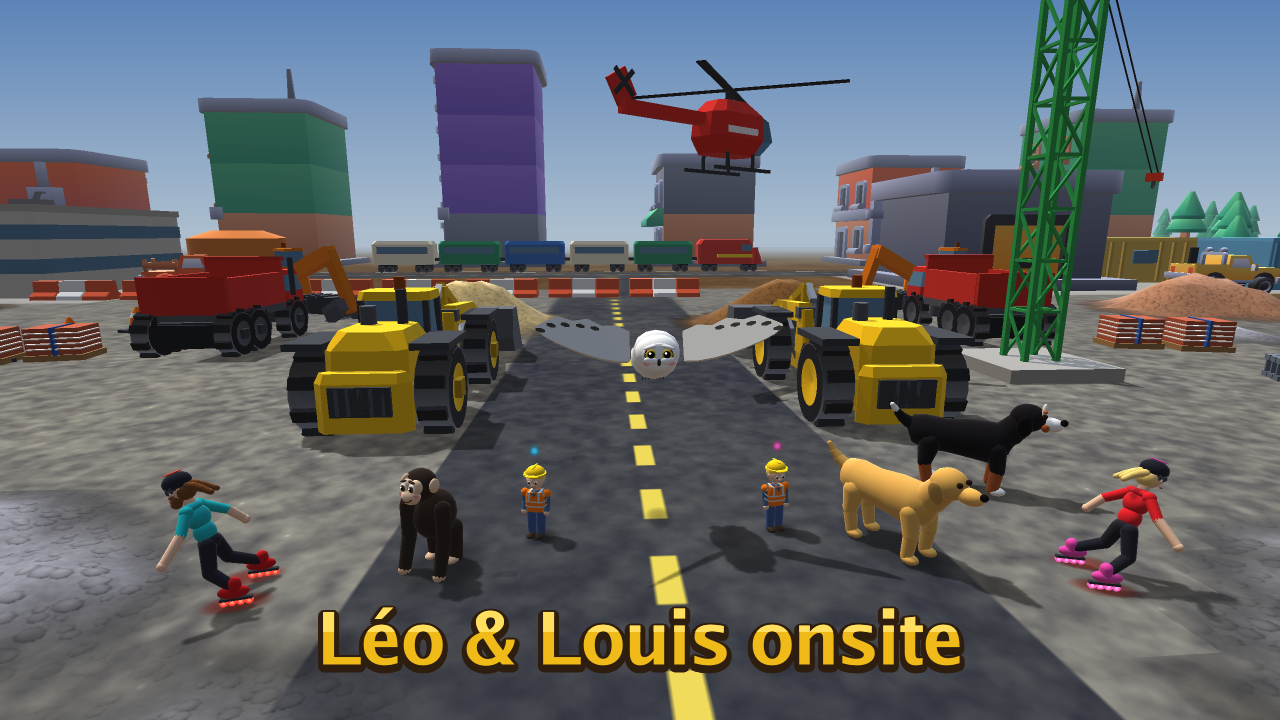
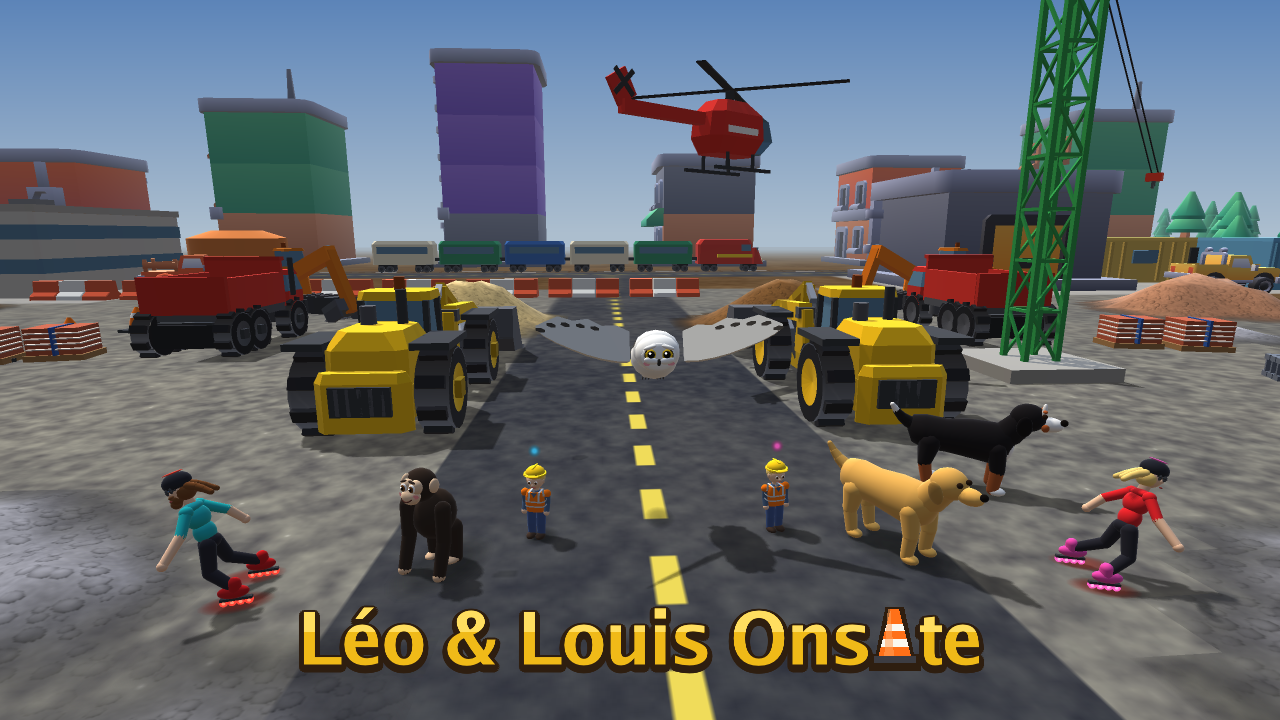
Cover title: capitalise Onsite and make its i a traffic cone
Claude-Session: https://claude.ai/code/session_01TV2VnbCZJpiNm8PhxzPZxk

Changed region(s): [[0.2188, 0.825, 0.7812, 0.9472]]

diff --git a/cover.go b/cover.go
@@ -1,13 +1,15 @@
 package main
 
 import (
+	"image/color"
 	"math"
+	"strings"
 
 	rl "github.com/gen2brain/raylib-go/raylib"
 )
 
 // coverTitle is the name on the cover art.
-const coverTitle = "Léo & Louis onsite"
+const coverTitle = "Léo & Louis Ons|te" // the | is drawn as a traffic cone
 
 // stageCover sets up one still for the cover art: both kids out front with
 // their animal friends, the loaders behind them, a skater gliding past on
@@ -77,18 +79,82 @@ func (g *Game) stageCover(path string) {
 }
 
 // drawTitle writes the cover title across the bottom of the frame (the
-// helicopter has the sky) in chunky loader yellow with a dark outline.
+// helicopter has the sky) in chunky loader yellow with a dark outline. A "|"
+// in the title is drawn as a traffic cone standing in for the letter i.
 func (g *Game) drawTitle(title string) {
 	f := g.art.Title
-	x := (screenW - textWidth(title, f)) / 2
-	y := screenH - float64(f.size) - 40
-	ink := rgba(46, 30, 16, 255)
-	for a := 0.0; a < 2*math.Pi; a += math.Pi / 8 {
-		g.drawText(canvas{}, title, f, x+math.Cos(a)*5, y+math.Sin(a)*5+3, ink)
+	before, after, cone := strings.Cut(title, "|")
+	size := float64(f.size)
+	coneW := 0.0
+	if cone {
+		coneW = size * 0.5
 	}
-	g.drawText(canvas{}, title, f, x, y, colLoader)
+	gap := size * 0.03
+	w1 := textWidth(before, f)
+	total := w1 + textWidth(after, f)
+	if cone {
+		total += coneW + 2*gap
+	}
+	x := (screenW - total) / 2
+	y := screenH - size - 40
+	x2 := x + w1 + coneW + 2*gap
+	ink := rgba(46, 30, 16, 255)
+	text := func(dx, dy float64, c color.RGBA) {
+		g.drawText(canvas{}, before, f, x+dx, y+dy, c)
+		if cone {
+			g.drawText(canvas{}, after, f, x2+dx, y+dy, c)
+		}
+	}
+	for a := 0.0; a < 2*math.Pi; a += math.Pi / 8 {
+		text(math.Cos(a)*5, math.Sin(a)*5+3, ink)
+	}
+	if cone {
+		drawCone(x+w1+gap, y, coneW, size, 5, 3, ink)
+	}
+	text(0, 0, colLoader)
 	// a lighter band across the top of the letters
-	rl.BeginScissorMode(0, int32(y+10), screenW, int32(f.size*0.32))
-	g.drawText(canvas{}, title, f, x, y, rgba(255, 222, 96, 255))
+	rl.BeginScissorMode(0, int32(y+10), screenW, int32(size*0.32))
+	text(0, 0, rgba(255, 222, 96, 255))
 	rl.EndScissorMode()
+	if cone {
+		drawCone(x+w1+gap, y, coneW, size, 0, 0, color.RGBA{})
+	}
+}
+
+// drawCone draws a traffic cone as tall as a t in a line of
+// text of the given size whose glyph box starts at (x, y) and is w wide. With
+// grow > 0 it draws just the outline: the shape grown by that much in ink,
+// dropped by drop.
+func drawCone(x, y, w, size, grow, drop float64, ink color.RGBA) {
+	base := y + size*0.80 // the text baseline
+	top := y + size*0.15  // level with the t
+	foot := size * 0.08
+	cx := x + w/2
+	// trap fills a trapezoid between heights yt and yb, wt and wb wide there,
+	// centred on cx+dx
+	trap := func(yt, yb, wt, wb, dx float64, c color.RGBA) {
+		tl := rl.NewVector2(float32(cx+dx-wt/2-grow), float32(yt-grow+drop))
+		tr := rl.NewVector2(float32(cx+dx+wt/2+grow), float32(yt-grow+drop))
+		bl := rl.NewVector2(float32(cx+dx-wb/2-grow), float32(yb+grow+drop))
+		br := rl.NewVector2(float32(cx+dx+wb/2+grow), float32(yb+grow+drop))
+		rl.DrawTriangle(tl, bl, br, rlc(c))
+		rl.DrawTriangle(tl, br, tr, rlc(c))
+	}
+	wb, wt := w*0.78, w*0.2 // the body's width at its foot and its tip
+	yb := base - foot
+	if grow > 0 {
+		trap(yb, base, w, w, 0, ink)
+		trap(top, yb, wt, wb, 0, ink)
+		return
+	}
+	trap(yb, base, w, w, 0, rgba(60, 60, 66, 255)) // the square foot
+	trap(top, yb, wt, wb, 0, rgba(255, 112, 24, 255))
+	// two white reflective bands
+	width := func(t float64) float64 { return wb + (wt-wb)*t } // t: 0 foot, 1 tip
+	height := func(t float64) float64 { return yb - (yb-top)*t }
+	for _, b := range [][2]float64{{0.2, 0.36}, {0.54, 0.68}} {
+		trap(height(b[1]), height(b[0]), width(b[1]), width(b[0]), 0, rgba(250, 248, 240, 255))
+	}
+	// sunlight down the left side
+	trap(top, yb, wt*0.3, wb*0.3, -(wt+wb)/4*0.55, rgba(255, 160, 90, 140))
 }

diff --git a/README.md b/README.md
@@ -1,6 +1,6 @@
 # Wheel Loader — Construction Site
 
-![Léo & Louis onsite](assets/cover.png)
+![Léo & Louis Onsite](assets/cover.png)
 
 A **3D** construction-site game for two small kids on one keyboard. Each kid
 has their own **articulated wheel loader**, dump truck and tower crane, and
@@ -196,7 +196,7 @@ go run . -single-scenes ./shots  # headless: capture single-screen play
 go run . -scenes ./shots -only crane  # just the scenes whose name matches
 go run . -tour ./shots      # headless: static views of site landmarks
 go run . -studio ./shots    # headless: contact sheets of every character in every pose
-go run . -cover cover.png   # headless: the cover art, Léo & Louis onsite
+go run . -cover cover.png   # headless: the cover art, Léo & Louis Onsite
 go run . -cpuprofile cpu.prof  # write a CPU profile (combine with any mode)
 ```
 
